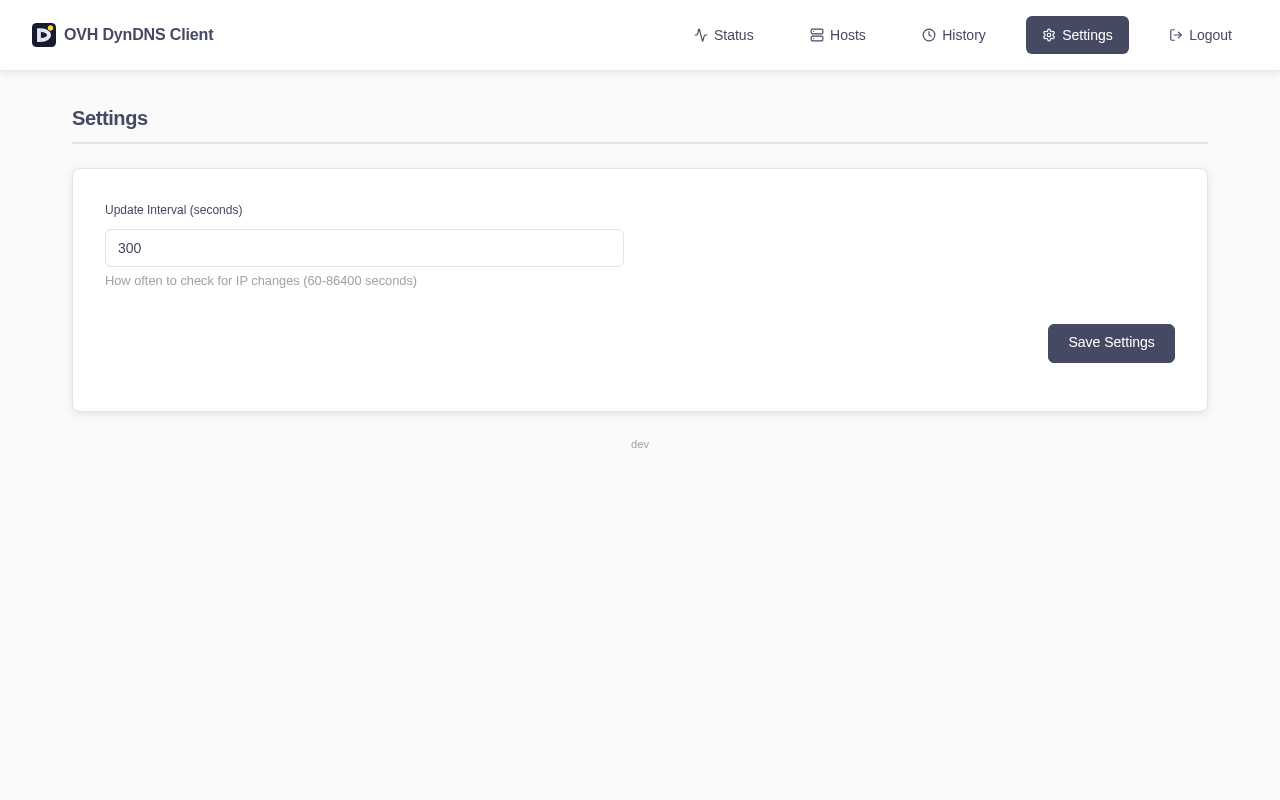
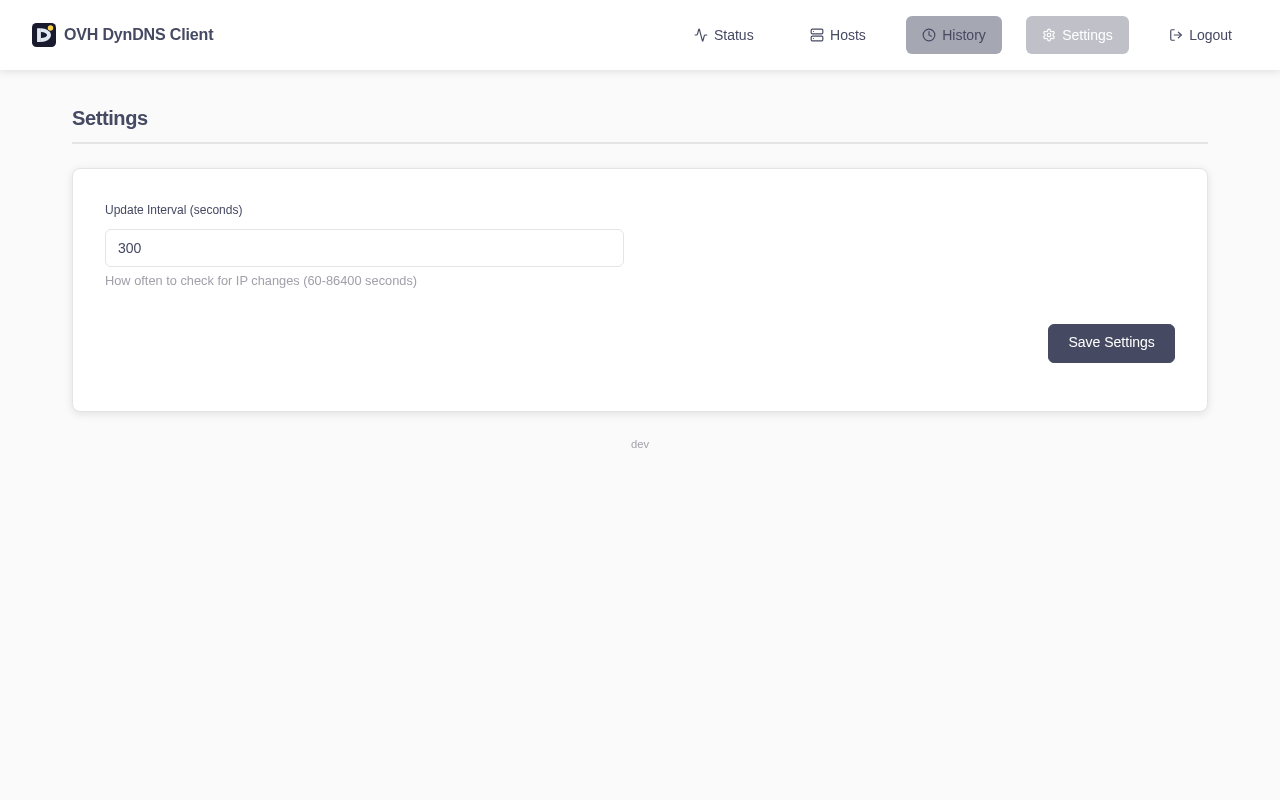
docs: sync docker-compose snippet and refresh screenshots (#25)
- Replace simplified docker-compose in README and SelfHost.astro with
  the exact content of docker-compose.yaml (env_file, named volume,
  env-var defaults for port/name/version)
- Add step to create .env and data/ directory before first run
- Recapture all four dashboard screenshots to reflect current UI
  (hosts table without ID column)

Changed region(s): [[0.6875, 0.0, 0.9062, 0.0938]]

diff --git a/README.md b/README.md
@@ -83,29 +83,48 @@ Log verbosity is controlled by the `LOGGER_LEVEL` environment variable (`DEBUG`,
 ```yaml
 services:
   ovh-dyndns-client:
-    image: cibrandocampo/ovh-dyndns-client:stable
-    container_name: ovh-dyndns-client
+    image: cibrandocampo/ovh-dyndns-client:${DOCKER_OVH_VERSION:-stable}
+    container_name: "${PROJECT_NAME:-ovh-dyndns-client}"
     init: true
     restart: unless-stopped
+    env_file:
+      - .env
     ports:
-      - "8000:8000"
+      - "${API_PORT:-8000}:${API_PORT:-8000}"
     volumes:
-      - ./data:/app/data
+      - ovh-dyndns-data:/app/data
     healthcheck:
-      test: ["CMD", "wget", "--quiet", "--tries=1", "--spider", "http://localhost:8000/health"]
+      test: ["CMD", "wget", "--quiet", "--tries=1", "--spider", "http://localhost:${API_PORT:-8000}/health"]
       interval: 30s
       timeout: 10s
       retries: 3
       start_period: 40s
+
+volumes:
+  ovh-dyndns-data:
+    driver: local
+    driver_opts:
+      type: "none"
+      o: "bind"
+      device: "${DATA_PATH:-./data}"
 ```
 
-2. **Run:**
+2. **Create `.env` and data directory:**
+
+```bash
+touch .env
+mkdir -p data
+```
+
+All variables have defaults — `.env` can stay empty or be used to override them (see [docs/CONFIGURATION.md](https://github.com/cibrandocampo/ovh-dyndns-client/blob/main/docs/CONFIGURATION.md)).
+
+3. **Run:**
 
 ```bash
 docker compose up -d
 ```
 
-3. **Access:** Open http://localhost:8000
+4. **Access:** Open http://localhost:8000
 
 Default credentials: `admin` / `admin` (password change required on first login)
 
